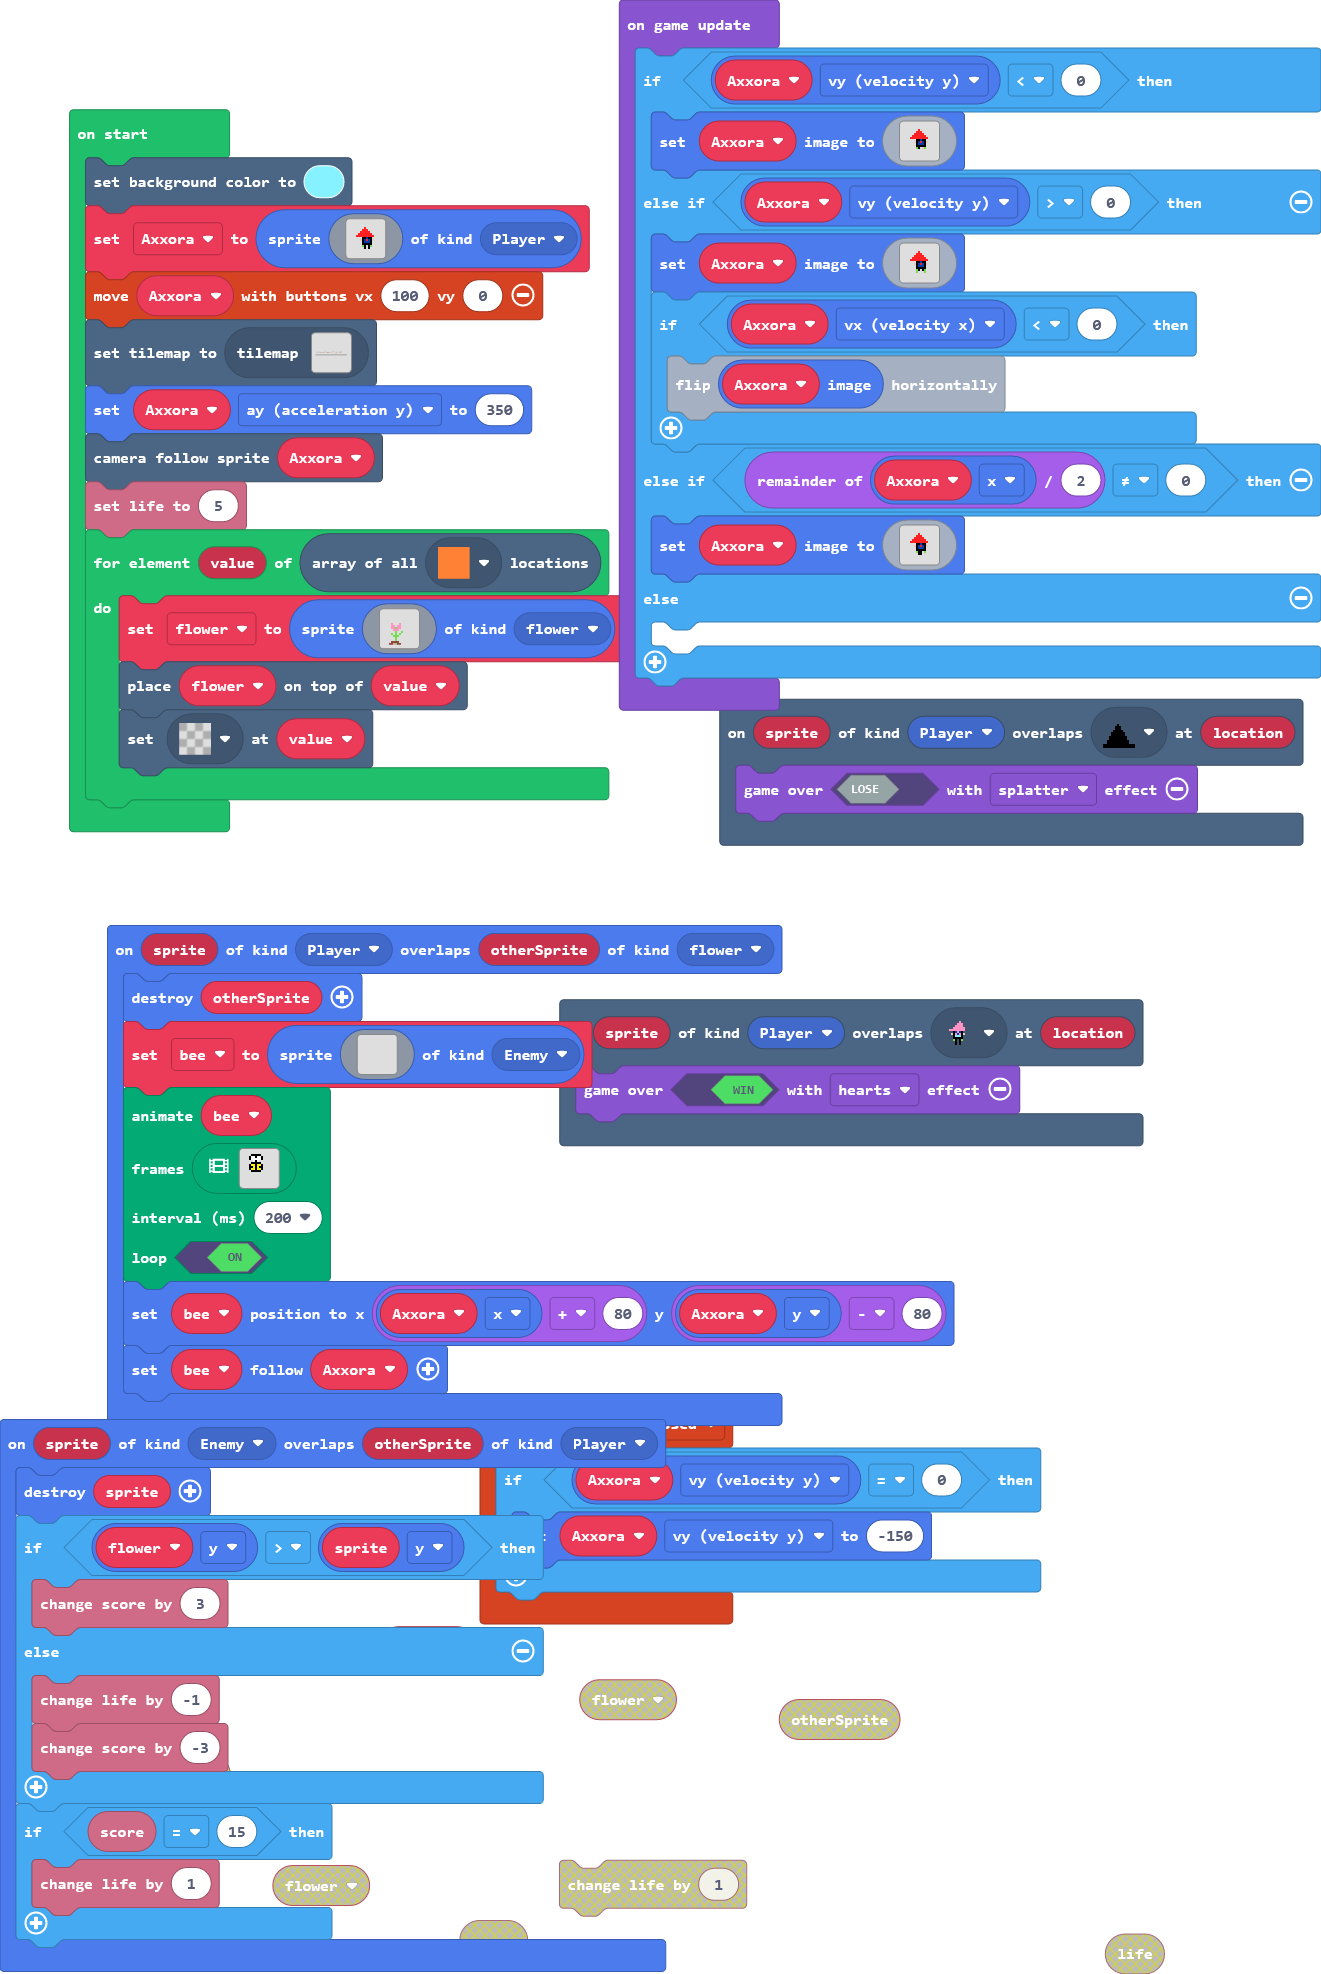
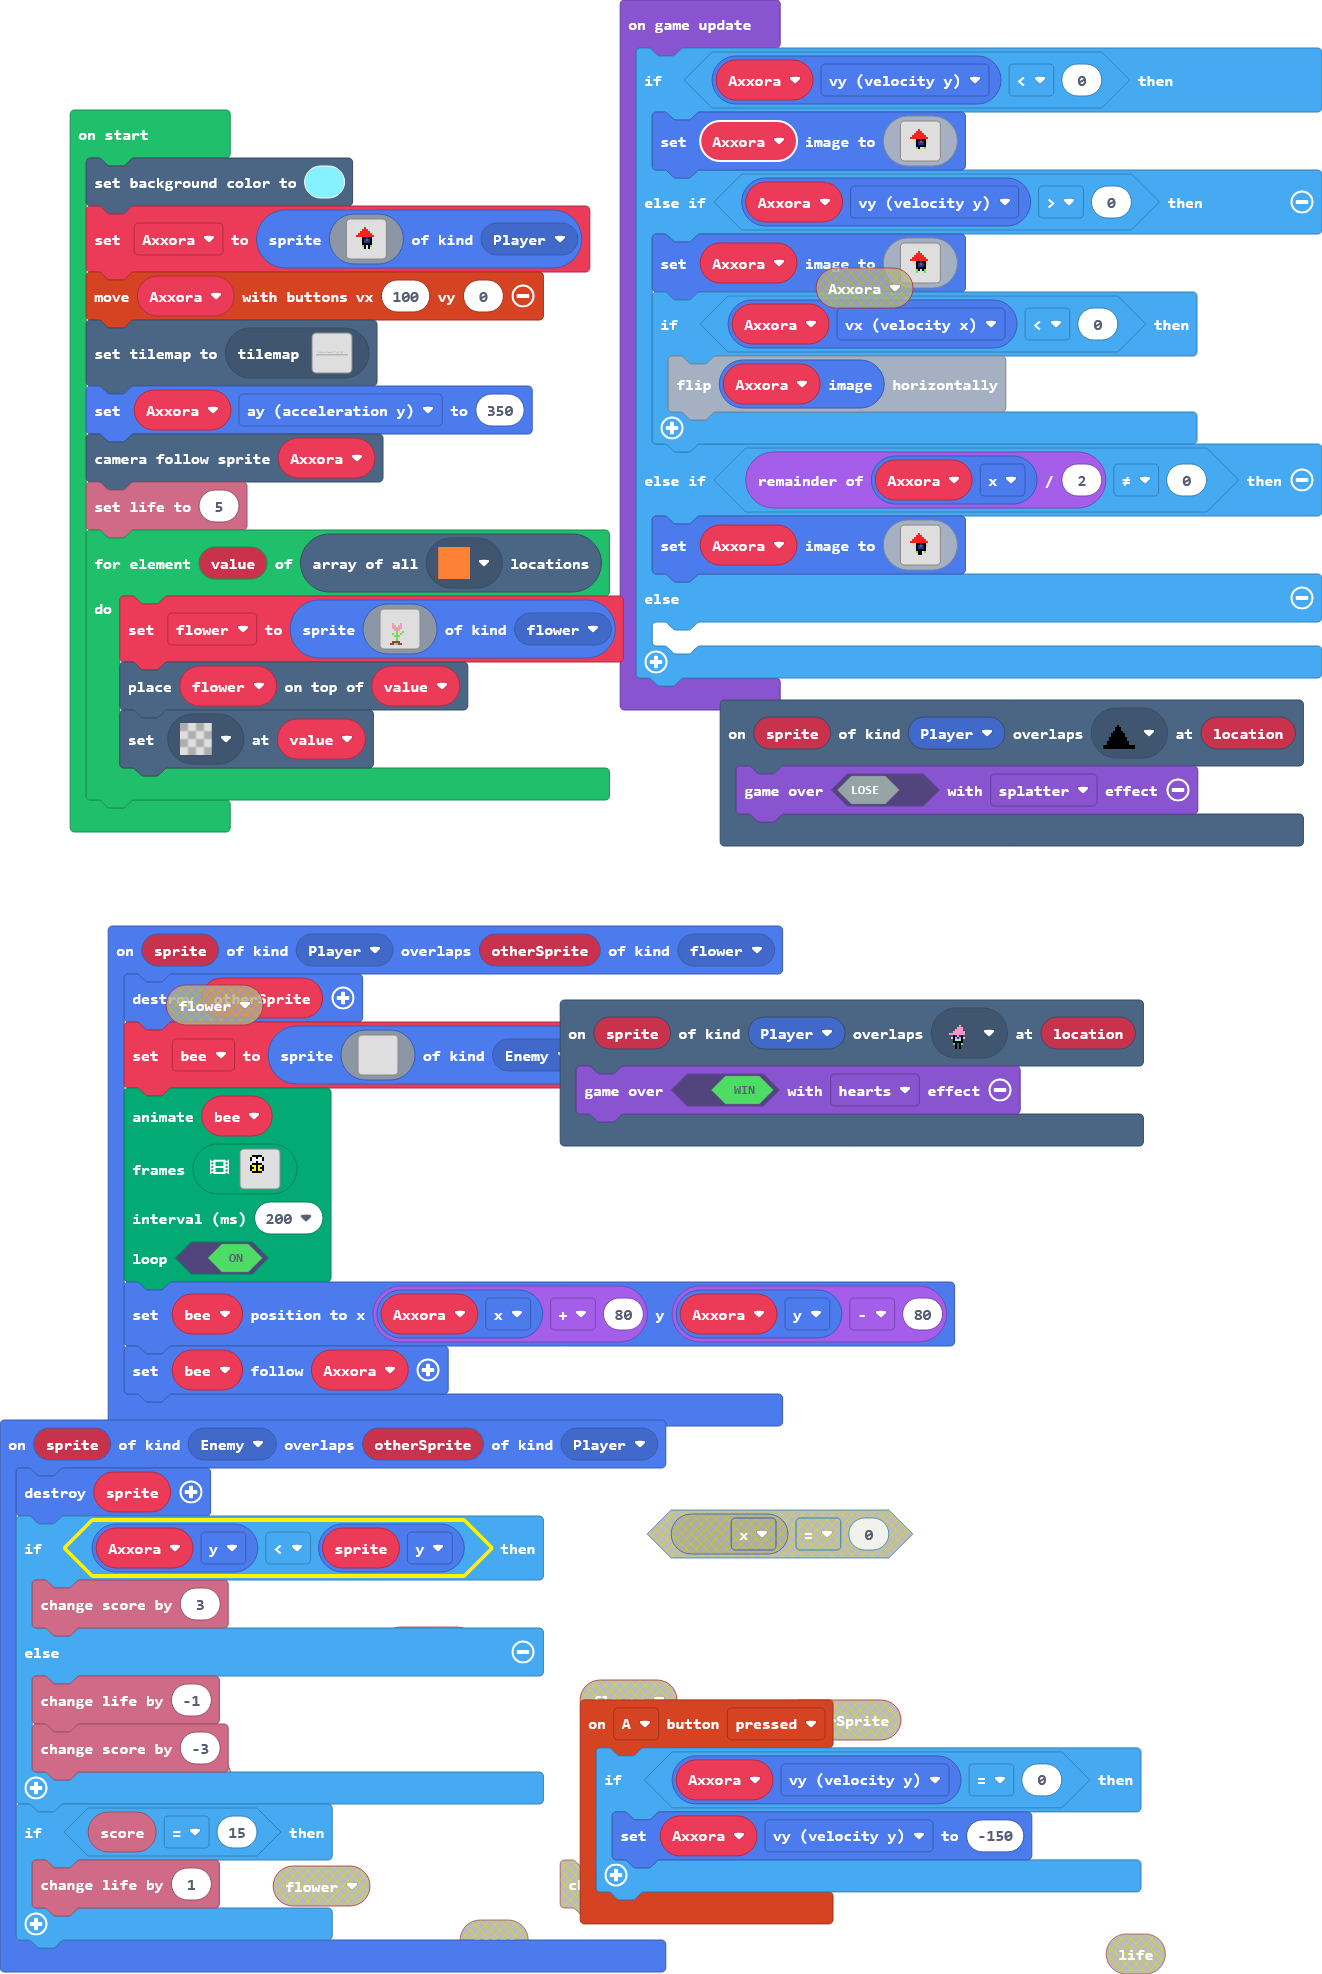
fix bugs

diff --git a/tilemap.g.ts b/tilemap.g.ts
@@ -7,33 +7,14 @@ namespace myTiles {
     //% fixedInstance jres blockIdentity=images._tile
     export const tile2 = image.ofBuffer(hex``);
     //% fixedInstance jres blockIdentity=images._tile
-    export const tile3 = image.ofBuffer(hex``);
-    //% fixedInstance jres blockIdentity=images._tile
     export const tile4 = image.ofBuffer(hex``);
     //% fixedInstance jres blockIdentity=images._tile
     export const tile5 = image.ofBuffer(hex``);
+    //% fixedInstance jres blockIdentity=images._tile
+    export const tile3 = image.ofBuffer(hex``);
 
     helpers._registerFactory("tilemap", function(name: string) {
         switch(helpers.stringTrim(name)) {
-            case "level1":
-            case "level1":return tiles.createTilemap(hex`6400100000000000000000000000000000000000000000000000000000000000000000000000000000000000000000000000000000000000000000000000000000000000000000000000000000000000000000000000000000000000000000000000000000000000000000000000000000000000000000000000000000000000000000000000000000000000000000000000000000000000000000000000000000000000000000000000000000000000000000000000000000000000000000000000000000000000000000000000000000000000000000000000000000000000000000000000000000000000000000000000000000000000000000000000000000000000000000000000000000000000000000000000000000000000000000000000000000000000000000000000000000000000000000000000000000000000000000000000000000000000000000000000000000000000000000000000000000000000000000000000000000000000000000000000000000000000000000000000000000000000000000000000000000000000000000000000000000000000000000000000000000000000000000000000000000000000000000000000000000000000000000000000000000000001000000000000000000000000000100000000000000000000000000000000000000000000000000000000000000000003000000000003000000000000000000000000000000000001010000000000000000000000000000000000000000010000030000000000000000000000000100000000000000000300000300020000000000000000000000000000000000000000000101010100000001010100000300000000030000000003000000000000000000000303000000030000000000000300000000000100000000000000000103000000000000000000000101010101010100000000000000000000000000000000000000000000000000000100000000000101010000010101000001010101000000000001010101010101010101010000000101010000000000000000000000000000010000000001000000030000000000000000000000000000000000000000000000000000000000000000000000000000000000000000000000000000000000000000000000000000000000000000000000000000000000000000000000000000000300000000010000000000000100000000000000000000000000000000000000000000000000000000000000000000000000000000000000000000000000000000000000000000000000000000000000000000000000000000000000000000000000000000000300010000000000000000000000000000000000000000000000000000000000000000000000000000000000000000000000000000000000000000000000000000000000000000000000000000000000000000000000000000000000000000000000000001000000000000000000000000000000000000000000000000000000000000000000000000000000000000000000000000000000000000000000000000000000000000000000000000000000000000000000000000000000000000000000000000000000000000000000000000000000000000000000000000000000000000000000000000000000000000000000000000000000000000000000000000000000000000000000000000000000000000000000000000000000000000000000000000000000000000000000000000000000000000000000000000000000000000000000000000000000000000000000000000000000000000000000000000000000000000000000000000000000000000000000000000000000000000000000000000000000000000000000000000000000000000000000000000000000000000000000000000000000000000000000000000000000000000000000000000000000000000000000000000000000000000000000000000000000000000000000000000000000000000000000000000000000000000000000000000000000000000000000000000000000000000000000000000000004040404040404040404040404040404040404040404040404040404040404040404040404040404040404040404040404040404040404040404040404040404040404040404040404040404040404040404040404040404040404040404040404040404`, img`
-....................................................................................................
-....................................................................................................
-....................................................................................................
-....................................................................................................
-...........................................................2.............2..........................
-...............................22....................2...............2..............................
-.....2222...222.........................................2........2...........2222222................
-..........2.....222..222..2222.....22222222222...222..............2....2............................
-...............................................................2....2......2........................
-...................................................................2................................
-.................................................................2..................................
-....................................................................................................
-....................................................................................................
-....................................................................................................
-....................................................................................................
-....................................................................................................
-`, [myTiles.transparency16,myTiles.tile1,myTiles.tile3,myTiles.tile4,myTiles.tile2], TileScale.Sixteen);
             case "level2":
             case "level2":return tiles.createTilemap(hex`1000100000000000000000000000000000000000000000000000000000000000000000000000000000000000000000000000000000000000000000000000000000000000000000000000000000000000000000000000000000000000000000000000000000000000000000000000000000000000000000000000000000000000000000000000000000000000000000000000000000000000000000000000000000000000000000000000000000000000000000000000000000000000000000000000000000000000000000000000000000000000000000000000000000000000000000000000000000000000000000000000000000000000000000000000000000000000`, img`
 . . . . . . . . . . . . . . . . 
@@ -53,6 +34,25 @@ namespace myTiles {
 . . . . . . . . . . . . . . . . 
 . . . . . . . . . . . . . . . . 
 `, [myTiles.transparency16], TileScale.Sixteen);
+            case "level1":
+            case "level1":return tiles.createTilemap(hex`6400100000000000000000000000000000000000000000000000000000000000000000000000000000000000000000000000000000000000000000000000000000000000000000000000000000000000000000000000000000000000000000000000000000000000000000000000000000000000000000000000000000000000000000000000000000000000000000000000000000000000000000000000000000000000000000000000000000000000000000000000000000000000000000000000000000000000000000000000000000000000000000000000000000000000000000000000000000000000000000000000000000000000000000000000000000000000000000000000000000000000000000000000000000000000000000000000000000000000000000000000000000000000000000000000000000000000000000000000000000000000000000000000000000000000000000000000000000000000000000000000000000000000000000000000000000000000000000000000000000000000000000000000000000000000000000000000000000000000000000000000000000000000000000000000000000000000000000000000000000000000000000000000000000000001000000000000000000000000000100000000000000000000000000000000000000000000000000000000000000000003000000000003000000000000000000000000000000000001010000000000000000000000000000000000000000010000030000000000000000000000000100000000000000000300000300020000000000000000000000000000000000000000000101010100000001010100000300000000030000000003000000000000000000000303000000030000000000000300000000000100000000000000000103000000000000000000000101010101010100000000000000000000000000000000000000000000000000000100000000000101010000010101000001010101000000000001010101010101010101010000000101010000000000000000000000000000010000000001000000030000000000000000000000000000000000000000000000000000000000000000000000000000000000000000000000000000000000000000000000000000000000000000000000000000000000000000000000000000000000000000010000000000000100000000000000000000000000000000000000000000000000000000000000000000000000000000000000000000000000000000000000000000000000000000000000000000000000000000000000000000000000000000000300010000000000000000000000000000000000000000000000000000000000000000000000000000000000000000000000000000000000000000000000000000000000000000000000000000000000000000000000000000000000000000000000000001000000000000000000000000000000000000000000000000000000000000000000000000000000000000000000000000000000000000000000000000000000000000000000000000000000000000000000000000000000000000000000000000000000000000000000000000000000000000000000000000000000000000000000000000000000000000000000000000000000000000000000000000000000000000000000000000000000000000000000000000000000000000000000000000000000000000000000000000000000000000000000000000000000000000000000000000000000000000000000000000000000000000000000000000000000000000000000000000000000000000000000000000000000000000000000000000000000000000000000000000000000000000000000000000000000000000000000000000000000000000000000000000000000000000000000000000000000000000000000000000000000000000000000000000000000000000000000000000000000000000000000000000000000000000000000000000000000000000000000000000000000000000000000000000000004040404040404040404040404040404040404040404040404040404040404040404040404040404040404040404040404040404040404040404040404040404040404040404040404040404040404040404040404040404040404040404040404040404`, img`
+....................................................................................................
+....................................................................................................
+....................................................................................................
+....................................................................................................
+...........................................................2.............2..........................
+...............................22....................2...............2..............................
+.....2222...222.........................................2........2...........2222222................
+..........2.....222..222..2222.....22222222222...222..............2....2............................
+...............................................................2....2......2........................
+...................................................................2................................
+.................................................................2..................................
+....................................................................................................
+....................................................................................................
+....................................................................................................
+....................................................................................................
+....................................................................................................
+`, [myTiles.transparency16,myTiles.tile1,myTiles.tile3,myTiles.tile4,myTiles.tile2], TileScale.Sixteen);
         }
         return null;
     })
@@ -64,12 +64,12 @@ namespace myTiles {
             case "tile1":return tile1;
             case "myTile0":
             case "tile2":return tile2;
-            case "myTile1":
-            case "tile3":return tile3;
             case "myTile2":
             case "tile4":return tile4;
             case "myTile3":
             case "tile5":return tile5;
+            case "myTile1":
+            case "tile3":return tile3;
         }
         return null;
     })

diff --git a/main.ts b/main.ts
@@ -14,7 +14,7 @@ controller.A.onEvent(ControllerButtonEvent.Pressed, function () {
 })
 sprites.onOverlap(SpriteKind.Enemy, SpriteKind.Player, function (sprite, otherSprite) {
     sprite.destroy()
-    if (flower.y > sprite.y) {
+    if (Axxora.y < sprite.y) {
         info.changeScoreBy(3)
     } else {
         info.changeLifeBy(-1)
